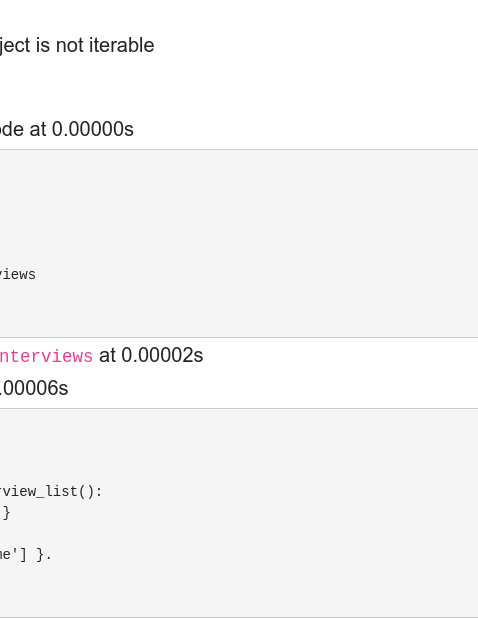
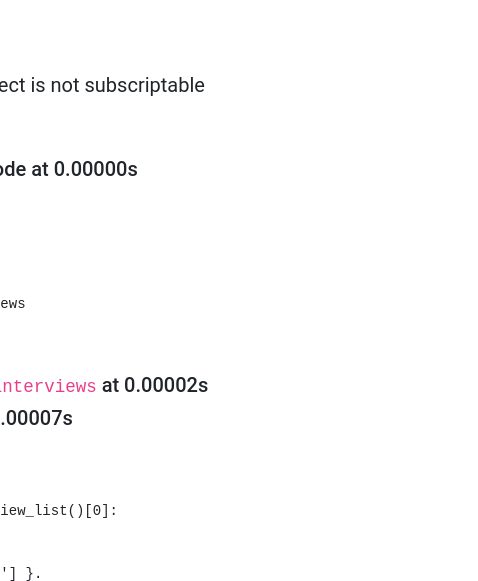
store_variables_snapshot()

diff --git a/docassemble_webapp/docassemble/webapp/server.py b/docassemble_webapp/docassemble/webapp/server.py
@@ -24634,7 +24634,7 @@ if not os.access(WEBAPP_PATH, os.W_OK):
 
 from docassemble.webapp.daredis import r, r_user
 
-#from docassemble.webapp.jsonstore import read_answer_json, write_answer_json, delete_answer_json, variables_snapshot_connection
+from docassemble.webapp.jsonstore import read_answer_json, write_answer_json, delete_answer_json, variables_snapshot_connection
 
 docassemble.base.functions.update_server(url_finder=get_url_from_file_reference,
                                          navigation_bar=navigation_bar,
@@ -24683,11 +24683,11 @@ docassemble.base.functions.update_server(url_finder=get_url_from_file_reference,
                                          main_page_parts=main_page_parts,
                                          SavedFile=SavedFile,
                                          path_from_reference=path_from_reference,
-                                         button_class_prefix=app.config['BUTTON_STYLE'])
-                                         # write_answer_json=write_answer_json,
-                                         # read_answer_json=read_answer_json,
-                                         # delete_answer_json=delete_answer_json,
-                                         # variables_snapshot_connection=variables_snapshot_connection)
+                                         button_class_prefix=app.config['BUTTON_STYLE'],
+                                         write_answer_json=write_answer_json,
+                                         read_answer_json=read_answer_json,
+                                         delete_answer_json=delete_answer_json,
+                                         variables_snapshot_connection=variables_snapshot_connection)
 
 #docassemble.base.util.set_user_id_function(user_id_dict)
 #docassemble.base.functions.set_generate_csrf(generate_csrf)

diff --git a/docassemble_webapp/docassemble/webapp/core/models.py b/docassemble_webapp/docassemble/webapp/core/models.py
@@ -3,7 +3,7 @@ from docassemble.base.config import daconfig, dbtableprefix
 from docassemble.webapp.database import dbprefix
 from sqlalchemy import true, false
 import docassemble.webapp.users.models
-# from sqlalchemy.dialects.postgresql.json import JSONB
+from sqlalchemy.dialects.postgresql.json import JSONB
 
 class Uploads(db.Model):
     __tablename__ = dbtableprefix + "uploads"
@@ -116,15 +116,15 @@ class GlobalObjectStorage(db.Model):
     user_id = db.Column(db.Integer(), db.ForeignKey(dbtableprefix + 'user.id', ondelete='CASCADE'))
     temp_user_id = db.Column(db.Integer(), db.ForeignKey(dbtableprefix + 'tempuser.id', ondelete='CASCADE'))
 
-# class JsonStorage(db.Model):
-#     __tablename__ = dbtableprefix + "jsonstorage"
-#     id = db.Column(db.Integer(), primary_key=True)
-#     filename = db.Column(db.String(255), index=True)
-#     key = db.Column(db.String(250), index=True)
-#     if dbprefix.startswith('postgresql'):
-#         data = db.Column(JSONB)
-#     else:
-#         data = db.Column(db.Text())
-#     tags = db.Column(db.Text())
-#     modtime = db.Column(db.DateTime(), server_default=db.func.now())
-#     persistent = db.Column(db.Boolean(), nullable=False, server_default=false())
+class JsonStorage(db.Model):
+    __tablename__ = dbtableprefix + "jsonstorage"
+    id = db.Column(db.Integer(), primary_key=True)
+    filename = db.Column(db.String(255), index=True)
+    key = db.Column(db.String(250), index=True)
+    if dbprefix.startswith('postgresql'):
+        data = db.Column(JSONB)
+    else:
+        data = db.Column(db.Text())
+    tags = db.Column(db.Text())
+    modtime = db.Column(db.DateTime(), server_default=db.func.now())
+    persistent = db.Column(db.Boolean(), nullable=False, server_default=false())

diff --git a/docassemble_webapp/docassemble/webapp/create_tables.py b/docassemble_webapp/docassemble/webapp/create_tables.py
@@ -9,7 +9,7 @@ from docassemble.base.functions import word
 from docassemble.webapp.app_object import app
 from docassemble.webapp.db_object import db
 from docassemble.webapp.users.models import UserModel, UserAuthModel, Role, UserDict, UserDictKeys, ChatLog
-from docassemble.webapp.core.models import Uploads, ObjectStorage, SpeakList, Shortener, MachineLearning, GlobalObjectStorage#, JsonStorage
+from docassemble.webapp.core.models import Uploads, ObjectStorage, SpeakList, Shortener, MachineLearning, GlobalObjectStorage, JsonStorage
 
 import docassemble.webapp.core.models
 from docassemble.webapp.packages.models import Package

diff --git a/docassemble_base/docassemble/base/functions.py b/docassemble_base/docassemble/base/functions.py
@@ -4017,7 +4017,10 @@ def get_user_list(include_inactive=False, next_id=None):
                 raise DAError("get_user_list: invalid next_id.")
         else:
             start_id = None
-        return server.get_user_list(include_inactive=include_inactive, start_id=start_id)
+        (the_list, start_id) = server.get_user_list(include_inactive=include_inactive, start_id=start_id)
+        if start_id is None:
+            return (the_list, None)
+        return (the_list, myb64quote(str(start_id)))
     return None
 
 def manage_privileges(*pargs):

diff --git a/CHANGELOG.md b/CHANGELOG.md
@@ -1,5 +1,9 @@
 # Change Log
 
+## [1.1.47] - 2020-07-05
+### Added
+- The `store_variables_snapshot()` function.
+
 ## [1.1.46] - 2020-07-05
 ### Fixed
 - Error in restart module.
@@ -24,7 +28,8 @@
   Note that this change is not backwards-compatible, so you will need
   to change any code that you have that uses these APIs.
 - Removed the `PY2`, `string_types`, and `text_type` names from
-  `docassemble.base.util`.
+  `docassemble.base.util`.  Note that if you have used any of these,
+  this change may break your code.
 ### Added
 - The `persistent` optional keyword parameter for
   `mark_task_as_performed()` and related functions.
